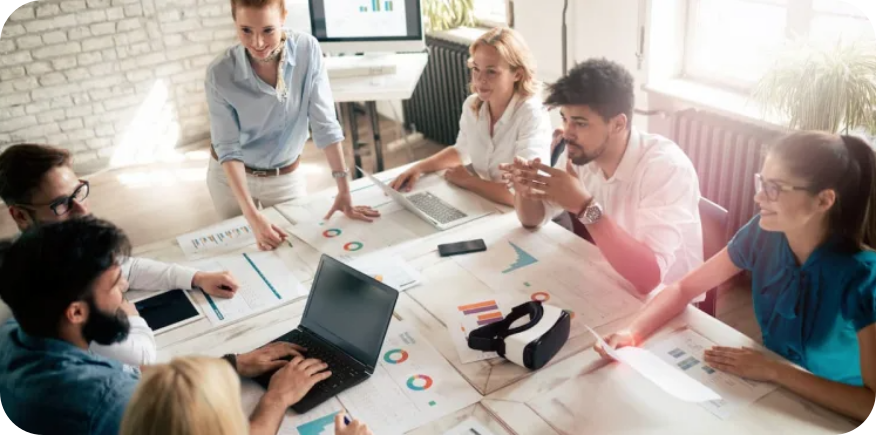
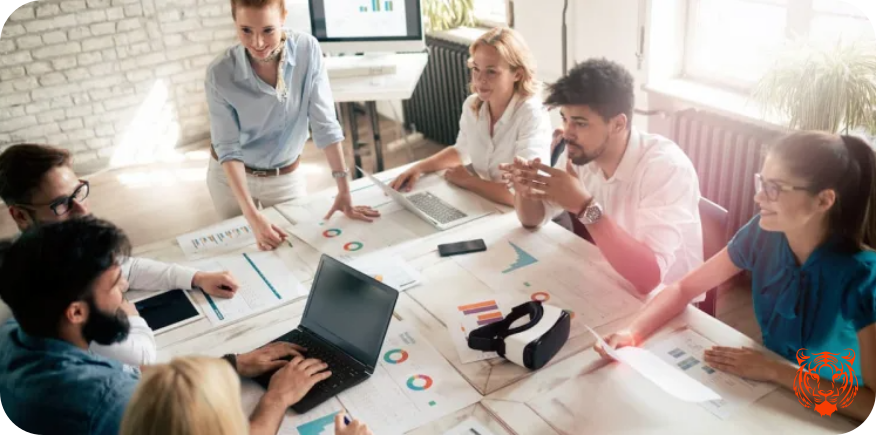
Add files via upload
minor changes

Changed region(s): [[0.8938, 0.8069, 0.9863, 0.9563]]

diff --git a/src/Pages/Contact/contact.css b/src/Pages/Contact/contact.css
@@ -3,7 +3,7 @@
   flex-direction: column;
 
   width: 100vw;
-  height: 120vh;
+  height: 100vh;
 
   align-items: center;
   
@@ -64,6 +64,6 @@
 }
 .Fim {
   width: 90rem;
-  height: 5rem;
-  margin-top: 25rem;
+  height: 16rem;
+  margin-top: 18rem;
 }

diff --git a/src/Pages/Contact/Contact.js b/src/Pages/Contact/Contact.js
@@ -1,5 +1,5 @@
 import Jorg from '../../assets/Jorg.png';
-import Fim from '../../assets/fim.png'
+import Fim from '../../assets/fim2.png'
 import './contact.css';
 
 function Contact() {
